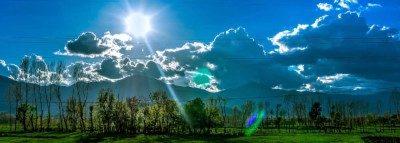
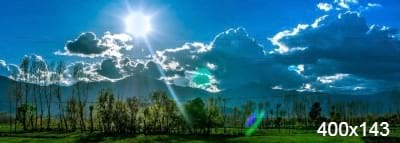
img optim

diff --git a/week6/preston.html b/week6/preston.html
@@ -45,8 +45,8 @@
         <div class="summary">
             <picture id="hero">
                 <source type="image/jpg" srcset="../pictures/week6/hero1400w.jpg" media="screen and (min-width:1200px)">
-                <source type="image/jpg" srcset="../pictures/week6/hero950w" media="screen and (min-width:700px)">
-                <source type="image/jpg" srcset="../pictures/week6/hero400w" alt="mountains trees and sunny skies">
+                <source type="image/jpg" srcset="../pictures/week6/hero950w.jpg" media="screen and (min-width:700px)">
+                <source type="image/jpg" srcset="../pictures/week6/hero400w.jpg" alt="mountains trees and sunny skies">
                 <img id='hero' src="/pictures/week6/hero400w.jpg" alt="sunny sky, mountains, trees">
             </picture>
             <section id="weathersummary">
